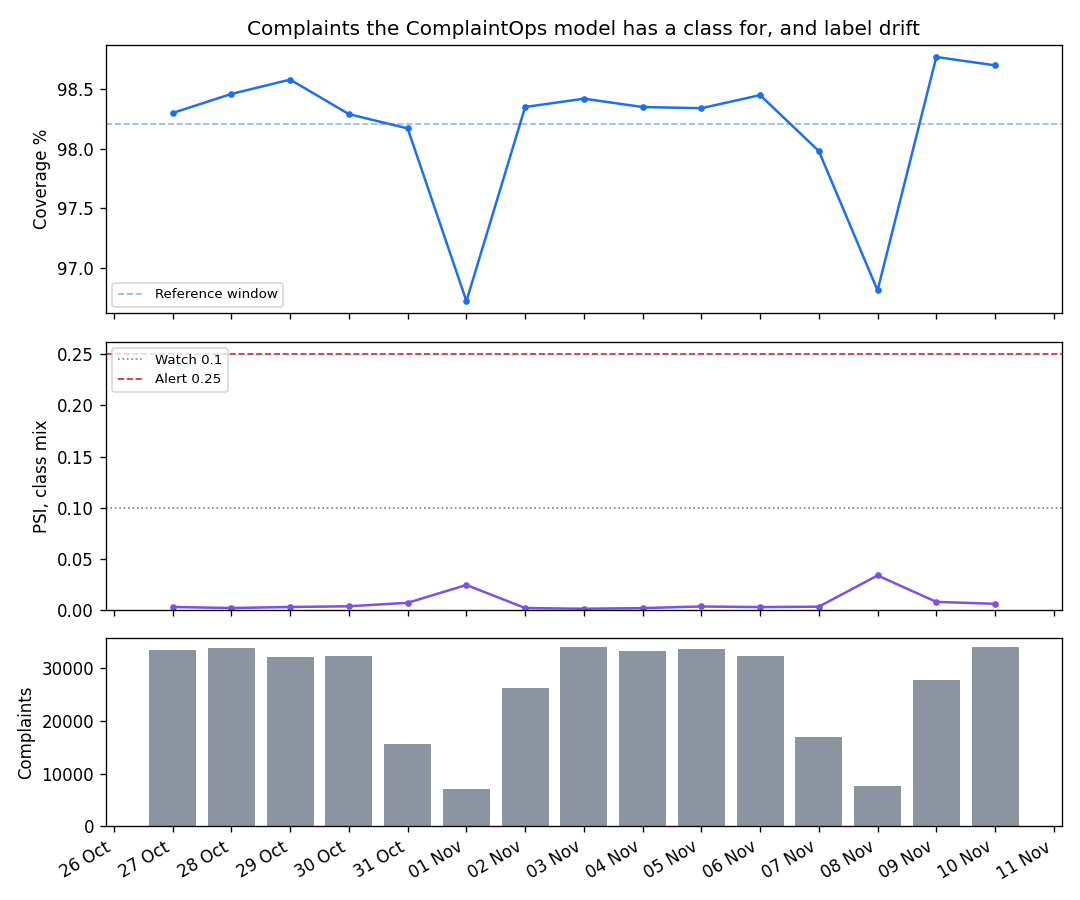
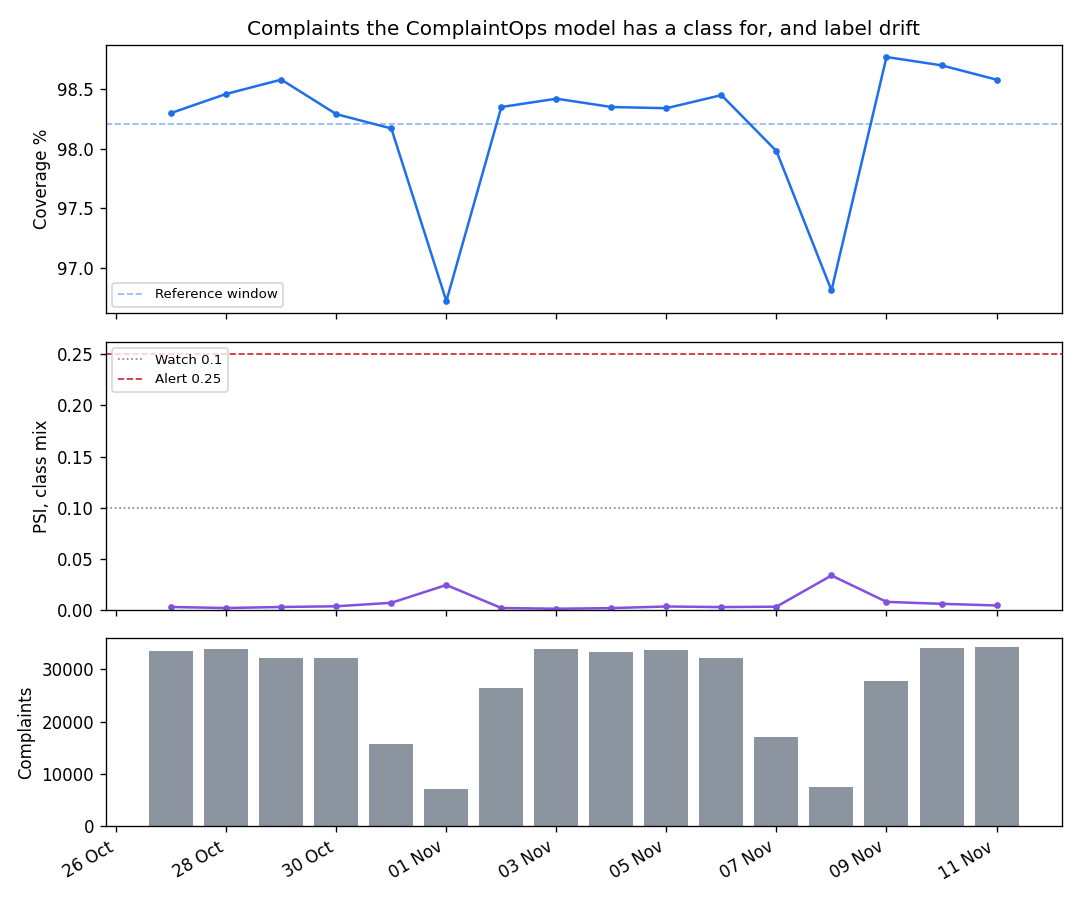
Complaints received 2026-11-11: 34,202, coverage 98.6%, label PSI 0.004, OK | model eval: accuracy 81.6%, auto 72.4% at 92.3%

diff --git a/README.md b/README.md
@@ -18,7 +18,7 @@ Reports below are generated automatically by the daily job.
 ## Dashboard
 
 <!-- LIVE:START -->
-**Last run:** 2026-11-25 | **Latest receipt date checked:** 2026-11-10 | **Status:** OK
+**Last run:** 2026-11-26 | **Latest receipt date checked:** 2026-11-11 | **Status:** OK
 
 Reference window: complaints received 2026-09-29 to 2026-10-26 (677,358 complaints, 98.2% covered by the model's classes).
 
@@ -26,13 +26,13 @@ Reference window: complaints received 2026-09-29 to 2026-10-26 (677,358 complain
 
 | Received | Complaints | Coverage | PSI class mix | Largest class | Status |
 | --- | --- | --- | --- | --- | --- |
+| [2026-11-11](reports/2026-11-11.md) | 34,202 | 98.6% | 0.004 | Credit reporting / Dispute, accuracy or use of report (93.4%) | OK |
 | [2026-11-10](reports/2026-11-10.md) | 33,970 | 98.7% | 0.006 | Credit reporting / Dispute, accuracy or use of report (93.5%) | OK |
 | [2026-11-09](reports/2026-11-09.md) | 27,740 | 98.8% | 0.008 | Credit reporting / Dispute, accuracy or use of report (93.8%) | OK |
 | [2026-11-08](reports/2026-11-08.md) | 7,552 | 96.8% | 0.034 | Credit reporting / Dispute, accuracy or use of report (86.8%) | OK |
 | [2026-11-07](reports/2026-11-07.md) | 16,967 | 98.0% | 0.003 | Credit reporting / Dispute, accuracy or use of report (91.5%) | OK |
 | [2026-11-06](reports/2026-11-06.md) | 32,221 | 98.5% | 0.003 | Credit reporting / Dispute, accuracy or use of report (92.7%) | OK |
 | [2026-11-05](reports/2026-11-05.md) | 33,643 | 98.3% | 0.004 | Credit reporting / Dispute, accuracy or use of report (92.5%) | OK |
-| [2026-11-04](reports/2026-11-04.md) | 33,294 | 98.4% | 0.002 | Credit reporting / Dispute, accuracy or use of report (92.4%) | OK |
 <!-- LIVE:END -->
 
 ## Daily model evaluation
@@ -43,10 +43,13 @@ ComplaintOps data that the model never trained on. This catches a broken model u
 runtime within a day, and tracks CPU latency on a standard GitHub runner.
 
 <!-- EVAL:START -->
-**Latest (2026-11-25):** 500 held-out complaints, accuracy 84.0%, answered automatically 70.2% at 94.9% accuracy, 43.2 ms per request (p50, CPU).
+**Latest (2026-11-26):** 500 held-out complaints, accuracy 81.6%, answered automatically 72.4% at 92.3% accuracy, 14.4 ms per request (p50, CPU).
+
+![Evaluation trend](reports/eval_trend.png)
 
 | Date | Accuracy | Auto-answered | Accuracy (auto) | p50 ms |
 | --- | --- | --- | --- | --- |
+| [2026-11-26](reports/eval/2026-11-26.md) | 81.6% | 72.4% | 92.3% | 14.4 |
 | [2026-11-25](reports/eval/2026-11-25.md) | 84.0% | 70.2% | 94.9% | 43.2 |
 <!-- EVAL:END -->
 

diff --git a/reports/2026-11-11.md b/reports/2026-11-11.md
@@ -1,0 +1,24 @@
+# ComplaintOps Live: complaints received 2026-11-11
+
+**Status: OK**
+
+| Metric | This day | Reference window |
+| --- | --- | --- |
+| Complaints received | 34,202 | |
+| Covered by the model's 24 classes | 98.6% | 98.2% |
+| PSI of class mix vs reference | 0.004 | < 0.1 stable |
+| Largest class | Credit reporting / Dispute, accuracy or use of report (93.4%) | |
+
+**Classes growing most vs reference**
+
+- Credit reporting / Dispute, accuracy or use of report: 91.8% -> 93.4%
+
+**Largest product + issue pairs the model has no class for**
+
+- Credit card / Closing your account: 39
+- Money transfer, virtual currency, or money service / Unauthorized transactions or other transaction problem: 36
+- Credit card / Incorrect information on your report: 25
+- Credit card / Trouble using your card: 22
+- Money transfer, virtual currency, or money service / Other transaction problem: 22
+
+Counts come from the CFPB public API for this receipt date and can still change slightly if late complaints are published.

diff --git a/reports/eval/2026-11-26.md b/reports/eval/2026-11-26.md
@@ -1,0 +1,13 @@
+# Model evaluation: 2026-11-26
+
+The published int8 ONNX model classified 500 held-out complaints sampled for this date.
+
+| Metric | Today | Full test split |
+| --- | --- | --- |
+| Accuracy (top-1, 24 classes) | 81.6% | |
+| Answered automatically (confidence >= 0.8) | 72.4% | 72.6% |
+| Accuracy of automatic answers | 92.3% | 93.9% |
+| CPU latency per complaint, batched | 25.6 ms | |
+| CPU latency, single request p50 / p95 | 14.4 / 21.2 ms | |
+
+Runs on a GitHub Actions runner (4 vCPU, no GPU).
